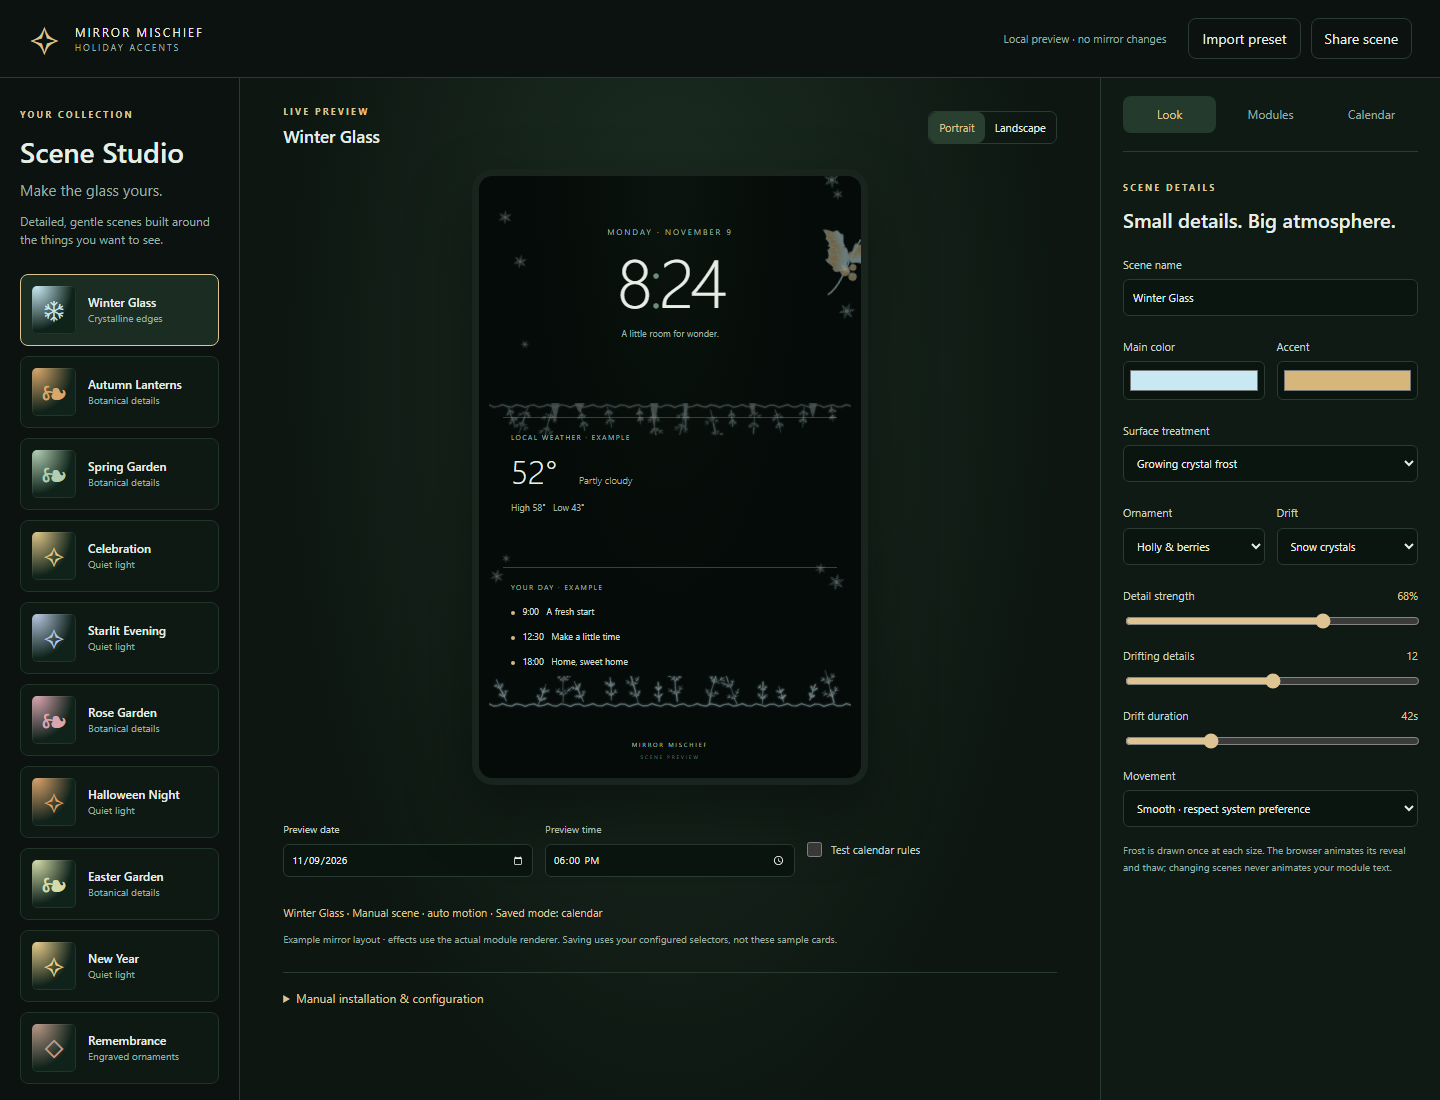
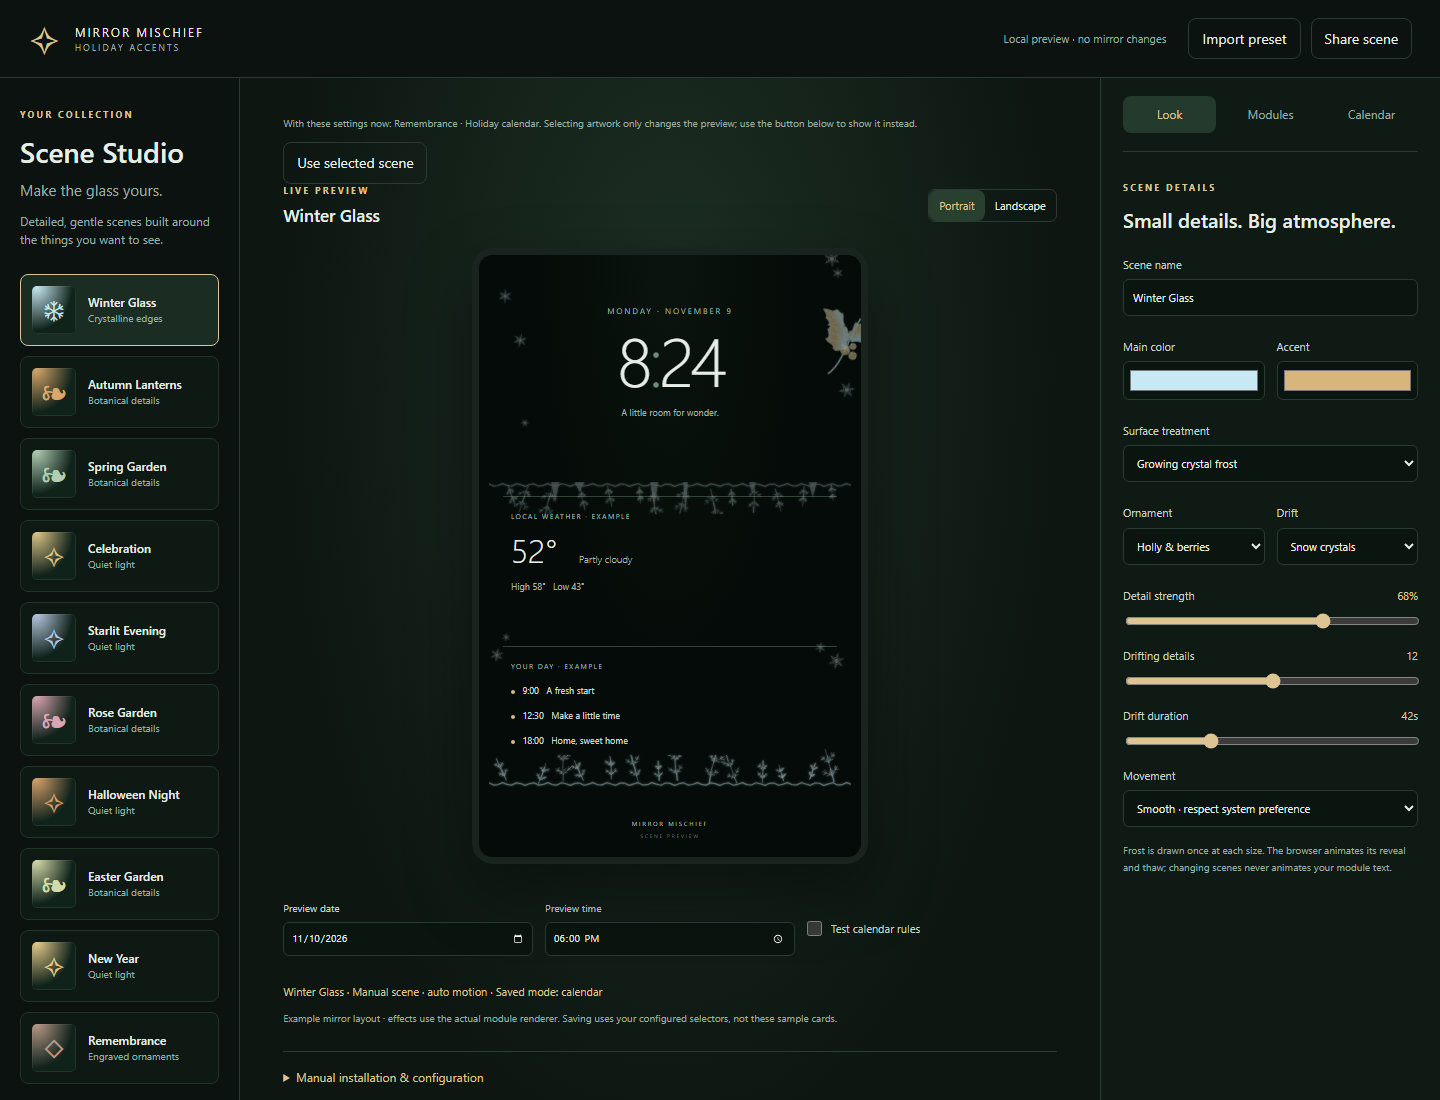
Polish Mischief previews, data handling and setup guidance

diff --git a/README.md b/README.md
@@ -63,3 +63,7 @@ See **[SCENE-STUDIO.md](SCENE-STUDIO.md)** for manual examples, every scene fiel
 Original Mischief vector/canvas code and geometry, MIT. No third-party image, generated video, sound or external scene service is needed. The older frost material/renderer may remain as legacy source but is not loaded by Rite. Report bugs with your platform, MagicMirror version and a minimal configuration without personal details.
 
 Run `npm ci` and `npm test`. See [VALIDATION.md](VALIDATION.md). Back up settings/customizations before `git pull --ff-only`; restart the mirror afterwards. To stop Rite, disable/remove its configuration entry. Older MMM-MischiefHolidayAccents installations require coordinated folder and config-name migration; preserve the old folder for rollback. See the studio guide.
+
+## Help and troubleshooting
+
+See [TROUBLESHOOTING.md](TROUBLESHOOTING.md) for common states and setup checks. [Open an issue](https://github.com/FoggEyez/MMM-MCHF-Rite/issues) with a minimal configuration that has secrets removed.

diff --git a/TROUBLESHOOTING.md b/TROUBLESHOOTING.md
@@ -1,0 +1,7 @@
+# Rite troubleshooting
+
+- A selected scene is a preview. Calendar mode can show a different holiday scene; the status above the preview explains the current display rule.
+- Use selected scene switches to manual mode. Save to mirror, or export and apply config.js, to change the display.
+- If an accent is missing, check the target selector, its occurrence index, and clear areas. Full-screen layers stay transparent.
+
+Use the README for settings, dependencies, privacy and sources. For a bug report, include your device, MagicMirror and Node versions, the observed behavior and a minimal configuration with secrets removed. Do not post private feeds, tokens, precise home coordinates or network snapshots.

diff --git a/RELEASE-NOTES.md b/RELEASE-NOTES.md
@@ -1,3 +1,5 @@
-# 0.2.1 public preview
+# 0.2.2 public preview
 
-Clarifies scene preview versus the automatic holiday display. The editor reports which scene the display rules select now and includes Use selected scene to choose manual mode before saving or exporting. Automatic Veterans Day remembrance remains unchanged.
+Clearer scene selection and documentation; distinguishes previews from calendar-driven output.
+
+Includes updated migration and troubleshooting guidance. Manual configuration remains supported; the companion is optional. Preview status and device/provider limitations remain documented in VALIDATION.md.

diff --git a/CHANGELOG.md b/CHANGELOG.md
@@ -1,5 +1,9 @@
 # Changelog
 
+## 0.2.2
+
+Clearer scene selection and documentation; distinguishes previews from calendar-driven output. Updated troubleshooting and migration guidance.
+
 ## 0.2.1
 
 Scene Studio now states which scene the current display rules select, separately from the artwork being previewed. Use selected scene explicitly switches to manual mode; saving/exporting remains a separate step. Automatic Veterans Day poppies remain unchanged.
